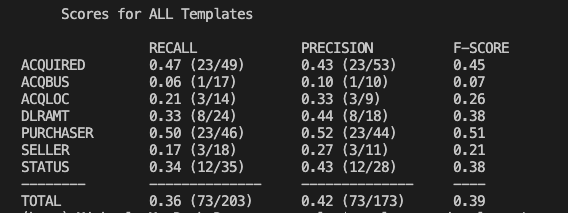
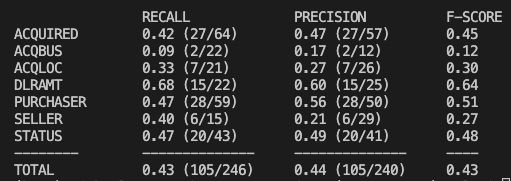
Updates for final turn-in

diff --git a/NLP Project (VR Troopers)/extract.py b/NLP Project (VR Troopers)/extract.py
@@ -8,26 +8,6 @@
 # December 6, 8: Project presentations (during class).
 # December 10: Final project slides and posters due
 
-#~~~~~~~~~
-
-# Random thoughts for the project
-
-#~~~~~~~~~
-# Vet these candidates through a rule-based system
-# Probability matrix to choose most likely answer
-# ACQLOC,  DLRAMT,  SELLER,  and  STATUS  all only have a single correct answer
-# Loop these through first with the highest probability and then use these answer to help inform latter options
-# DLRAMT -> phrase rather than singular amount
-# Recognize numeric values
-# List abbreviations for dollar (these can be given as clues to our system)
-# Have a scoring system based on how many rules they pass
-# From the dependency/POS tree, find generalized rules that can apply and use those to traverse to rebuild the sentence from the nodes
-# Looping System (multiple entities)
-# Rules Paper
-# X is to Y (NOUN ADJ)
-# X and Y 
-# X of Y and Z (NOUN NOUN NOUN)
-
 import sys # Used for I/O
 import ntpath # Used for pathing
 from pathlib import Path # Also used for pathing
@@ -35,7 +15,9 @@ import os
 import re # Used for regex
 import spacy # NLP Models
 from spacy import displacy # Visualization Tools
-from  itertools import chain
+from itertools import chain
+from spacy.matcher import DependencyMatcher
+from spacy import util # Filter Span
 
 
 def get_first_verb(spn):
@@ -72,10 +54,13 @@ def merge_docs(ml_doc, roberta_doc):
 
 def main():
     sp = spacy.load("./models/06/model-best")
-
-    # python -m spacy download en_core_web_trf
-    # pip install spacy[transformers,cuda111]
     roBERTa = spacy.load("./models/transformer")
+
+    roBERTa_merged_entities = spacy.load("./models/transformer")
+    roBERTa_merged_entities.add_pipe("merge_entities")
+    
+    dep_matcher = DependencyMatcher(vocab=roBERTa.vocab)
+    dep_matcher_pronoun = DependencyMatcher(vocab=roBERTa.vocab)
 
     all_stopwords = sp.Defaults.stop_words # Get all stop words
     all_stopwords.add("Reuter") # Add forms for Reuter
@@ -104,17 +89,30 @@ def main():
             "label": "DLRAMT",
             "pattern": "undisclosed",
             "id": "dlramt"
-        },
-        # Not working (??)
-        # {
-        #     "label": "DLRAMT",
-        #     "pattern": [
-        #         {"LOWER": "not"},
-        #         {"LOWER": "disclosed"}],
-        #     "id": "dlramt"
-        # },
+        }
     ]
     ruler.add_patterns(patterns)
+
+    dep_pattern = [{'RIGHT_ID': 'verb', 'RIGHT_ATTRS': {'POS': 'VERB'}},
+               {'LEFT_ID': 'verb', 'REL_OP': '>', 'RIGHT_ID': 'subject', 'RIGHT_ATTRS': {'DEP': 'nsubj'}}
+    ]
+
+    dep_pattern_2 = [{'RIGHT_ID': 'verb', 'RIGHT_ATTRS': {'POS': 'VERB'}},
+                    {'LEFT_ID': 'verb', 'REL_OP': '>', 'RIGHT_ID': 'subject', 'RIGHT_ATTRS': {'DEP': 'nsubj'}},
+                    {'LEFT_ID': 'verb', 'REL_OP': '>', 'RIGHT_ID': 'd_object', 'RIGHT_ATTRS': {'DEP': 'dobj'}}
+                    ]
+
+    dep_pattern_3 = [{'RIGHT_ID': 'verb', 'RIGHT_ATTRS': {'POS': 'VERB'}},
+               {'LEFT_ID': 'verb', 'REL_OP': ';*', 'RIGHT_ID': 'pronoun_before', 'RIGHT_ATTRS': {'POS': 'PROPN'}},
+               {'LEFT_ID': 'verb', 'REL_OP': '.*', 'RIGHT_ID': 'pronoun_after', 'RIGHT_ATTRS': {'POS': 'PROPN'}}
+    ]
+
+    # Add the pattern to the matcher under the name 'nsubj_verb'
+    dep_matcher.add('nsubj_verb', patterns=[dep_pattern])
+    # Add the pattern to the matcher under the name 'nsubj_verb_dobj'
+    dep_matcher.add('nsubj_verb_dobj', patterns=[dep_pattern_2])
+    # Add the pattern to the matcher under the name 'pronoun_verb_pronoun'
+    dep_matcher_pronoun.add('pronoun_verb', patterns=[dep_pattern_3])
 
     # Doclist of files to read in
     docFile = sys.argv[1]
@@ -125,12 +123,6 @@ def main():
     # Directory paths for both docs and answer keys
     developmentDocs = '/data/development-docs'
     developmentKeys = '/data/development-anskeys'
-
-    # Used for opening and reading all the files in the development docs
-    # for filename in os.listdir(os.getcwd() + developmentDocs):
-    #     with open(os.path.join(os.getcwd() + developmentDocs, filename), 'r') as fileText: # open in readonly mode
-    #         developmentDocText = docFilePath = fileText.read().strip().splitlines()
-    #         print(developmentDocText)
 
     # Read in files and separate by line
     with open(docFile) as docList:
@@ -158,101 +150,131 @@ def main():
         # Create a spacy object for the entire text given
         doc = sp(documentText)
 
+        newDoc_merged_entities = roBERTa_merged_entities(documentText)
         newDoc = roBERTa(documentText)
-        # secondDoc = nlp(documentText)
-        # TESTING -> Prints out each sentence
-        # for sentence in doc.sents:
-        #     print(sentence)
 
-            # TESTING -> Used for displaying the dependency graph for each sentence
-            # displacy.serve(doc, style="dep", options = {'distance': 150})
-            # displacy.serve(doc, style="ent")
+        dep_matches = dep_matcher(newDoc_merged_entities)
+        dep_matches_pronoun = dep_matcher_pronoun(newDoc_merged_entities)
 
-            # TESTING -> Other way for visualizing the entities and where they start/end in the sentence
-            # ents = [(e.text, e.start_char, e.end_char, e.label_) for e in doc.ents]
+        dependencyList = []
+        pronounDependencyList = []
 
-        # TESTING -> Loop through each entity spacy determined
+        for match in dep_matches_pronoun:
+            matches = match[1]
+            verb, pronoun_before, pronoun_after = matches[0], matches[1], matches[2]
+            pronounDependencyList.append([newDoc_merged_entities[pronoun_before], newDoc_merged_entities[verb].lemma_, newDoc_merged_entities[pronoun_after]])
+            # print(roBERTa.vocab[pattern_name].text, '\t', newDoc[pronoun_before], '...',  newDoc[verb].lemma_, '...',  newDoc[pronoun_after])
+
+        # Loop over each tuple in the list 'dep_matches'
+        for match in dep_matches:
+            matches = match[1]
+            if len(matches) > 2:
+                verb, subject, dobject = matches[0], matches[1], matches[2]
+                dependencyList.append([newDoc_merged_entities[subject], newDoc_merged_entities[verb], newDoc_merged_entities[dobject]])
+                
+            else:
+                verb, subject = matches[0], matches[1]
+                dependencyList.append([newDoc_merged_entities[subject], newDoc_merged_entities[verb]])
+                # print(roBERTa.vocab[pattern_name].text, '\t', newDoc[subject], '...', newDoc[verb])
 
         print (f"TEXT: {path[1]}")
         entityList = []
-        print("************************* MACHINE LEARNING MODEL *************************")
-        for ent in doc.ents:
+        spacyEntityList = []
+        
+        # print("************************* MACHINE LEARNING MODEL *************************")
+        # for ent in doc.ents:
             # entityList.append([ent.text, ent.label_])
-            print(f'{ent.text:{45}} {ent.label_}')
+            # print(f'{ent.text:{45}} {ent.label_}')
 
-        print("************************* SPACY TRANSFORMER MODEL *************************")
+        # print("************************* SPACY TRANSFORMER MODEL *************************")
         for ent in newDoc.ents:
-            print(f'{ent.text:{45}} {ent.label_}')
-
-        print("************************* MERGED *************************")
+            spacyEntityList.append([ent.text, ent.label_])
+            # if ent.label_ == 'GPE':
+                # spacyEntityListLoc.append(ent.text)
+            # print(f'{ent.text:{45}} {ent.label_}')
+        
+        # print("************************* MERGED *************************")
         merged = merge_docs(doc, newDoc)
         for ent in merged.ents:
-            #entityList.append([ent.text, ent.label_])
-            print(f'{ent.text:{45}} {ent.label_}')
+            entityList.append([ent.text, ent.label_])
+            # print(f'{ent.text:{45}} {ent.label_}')
 
         # TODO Uncomment when running in prod
-        # if("ACQUIRED" in chain(*entityList)):
-        #     for entity in entityList:
-        #         if entity[1] == 'ACQUIRED':
-        #             print (f"ACQUIRED: \"{entity[0]}\"")
+        if("ACQUIRED" in chain(*entityList)):
+            for entity in entityList:
+                if entity[1] == 'ACQUIRED':
+                    print (f"ACQUIRED: \"{entity[0]}\"")
         
-        # elif("ACQUIRED" not in chain(*entityList)):
-        #    print (f"ACQUIRED: ---") 
+        elif("ACQUIRED" not in chain(*entityList)):
+           print (f"ACQUIRED: ---") 
         
-        # if("ACQBUS" in chain(*entityList)):
-        #     for entity in entityList:
-        #         if entity[1] == 'ACQBUS':
-        #             print (f"ACQBUS: \"{entity[0]}\"")
+        if("ACQBUS" in chain(*entityList)):
+            for entity in entityList:
+                if entity[1] == 'ACQBUS':
+                    print (f"ACQBUS: \"{entity[0]}\"")
         
-        # elif("ACQBUS" not in chain(*entityList)):
-        #    print (f"ACQBUS: ---") 
+        elif("ACQBUS" not in chain(*entityList)):
+           print (f"ACQBUS: ---") 
 
-        # if("ACQLOC" in chain(*entityList)):
-        #     for entity in entityList:
-        #         if entity[1] == 'ACQLOC':
-        #             print (f"ACQLOC: \"{entity[0]}\"")
+        if("ACQLOC" in chain(*entityList)):
+            for entity in entityList:
+                if entity[1] == 'ACQLOC':
+                    print (f"ACQLOC: \"{entity[0]}\"")
         
-        # elif("ACQLOC" not in chain(*entityList)):
-        #    print (f"ACQLOC: ---")
+        elif("ACQLOC" not in chain(*entityList)):
+           print (f"ACQLOC: ---")
 
-        # if("DLRAMT" in chain(*entityList)):
-        #     for entity in entityList:
-        #         if entity[1] == 'DLRAMT':
-        #             print (f"DLRAMT: \"{entity[0]}\"")
+        if("DLRAMT" in chain(*entityList)):
+            for entity in entityList:
+                if entity[1] == 'DLRAMT':
+                    print (f"DLRAMT: \"{entity[0]}\"")
         
-        # elif("DLRAMT" not in chain(*entityList)):
-        #    print (f"DLRAMT: ---") 
+        elif("DLRAMT" not in chain(*entityList)):
+           print (f"DLRAMT: ---") 
 
-        # if("PURCHASER" in chain(*entityList)):
-        #     for entity in entityList:
-        #         if entity[1] == 'PURCHASER':
-        #             print (f"PURCHASER: \"{entity[0]}\"")
+        if("PURCHASER" in chain(*entityList)):
+            for entity in entityList:
+                if entity[1] == 'PURCHASER':
+                    print (f"PURCHASER: \"{entity[0]}\"")
         
-        # elif("PURCHASER" not in chain(*entityList)):
-        #    print (f"PURCHASER: ---") 
+        elif("PURCHASER" not in chain(*entityList)):
+           print (f"PURCHASER: ---") 
 
-        # if("SELLER" in chain(*entityList)):
-        #     for entity in entityList:
-        #         if entity[1] == 'SELLER':
-        #             print (f"SELLER: \"{entity[0]}\"")
+        SELLER_BOOL = True
+
+        if("SELLER" in chain(*entityList)):
+            for entity in entityList:
+                if entity[1] == 'SELLER':
+                    SELLER_BOOL = False
+                    print (f"SELLER: \"{entity[0]}\"")
         
-        # elif("SELLER" not in chain(*entityList)):
-        #    print (f"SELLER: ---") 
-
-        # if("STATUS" in chain(*entityList)):
-        #     for entity in entityList:
-        #         if entity[1] == 'STATUS':
-        #             print (f"STATUS: \"{entity[0]}\"")
+        elif("SELLER" not in chain(*entityList)):
+            sellerList = []
+            verbList = ['sell', 'move', 'close', 'trade', 'exchange', 'barter', 'give']
+            for entity in spacyEntityList:
+                usedEntityList = []
+                for pronounList in pronounDependencyList:
+                    strConversion = str(pronounList[0])
+                    strVerb = str(pronounList[1])
+                    if strConversion == entity[0] and entity[1] == 'ORG' and strVerb in verbList and entity[0] not in usedEntityList:
+                        usedEntityList.append(entity[0])
+                        SELLER_BOOL = False
+                        sellerList.append(entity[0])
+            if(len(sellerList)>0):
+                print (f"SELLER: \"{sellerList[0]}\"")
         
-        # elif("STATUS" not in chain(*entityList)):
-        #    print (f"STATUS: ---") 
+        if(SELLER_BOOL):
+            print (f"SELLER: ---")
 
-        # print()
+        if("STATUS" in chain(*entityList)):
+            for entity in entityList:
+                if entity[1] == 'STATUS':
+                    print (f"STATUS: \"{entity[0]}\"")
         
+        elif("STATUS" not in chain(*entityList)):
+           print (f"STATUS: ---") 
 
-        # TESTING -> displays the text, POS, dependency, and head for each token (each word)
-        # for token in doc:
-        #     print(f'{token.text:{15}} {token.pos_:{15}} {token.dep_:{15}} {token.head}')
+        print()
 
 if __name__ == "__main__":
     main()

diff --git a/NLP Project (VR Troopers)/train_model.py b/NLP Project (VR Troopers)/train_model.py
@@ -1,9 +1,9 @@
 import spacy # NLP Models
 
 def main():
-    nlp = spacy.load("en_core_web_trf")
-    # nlp.add_pipe("ner")
-    nlp.to_disk("models/transformer")
+    nlp = spacy.load("./models/05")
+    nlp.add_pipe("ner")
+    nlp.to_disk("./models/05")
 
 if __name__ == "__main__":
     main()

diff --git a/NLP Project (VR Troopers)/README.md b/NLP Project (VR Troopers)/README.md
@@ -3,16 +3,18 @@
 This repo contains code for the information extraction system for the domain of corporate acquisition events.
 
 ## Time Estimate
-This program contains a pre-trained model, thus the time for processing one document is relatively low ~100ms.
+This program contains a pre-trained model, thus the time for processing one document is relatively low ~1s.
 
 ## I-E Script
-Currently this script isn't used to install anything, but you can run it so that you know how to run the program (or just keep reading).
+This script is used to install the spacy-transformers that are needed for the transformer model from roBERTa.
 
 ## Running
 
 Tested on CADE lab machine (#25)
 
 All of the necessary dependencies have already been installed on CADE machines so there's no need to run a virtual environment at this time.  You will receive a warning regarding some "TensorBoard" install but since the model is pre-trained and included in this repo, this is not an issue.
+
+You will need to install the spacy-transformers via the I-E script. Just run the I-E before running the extract script and you should be good.
 
 The doclist provided must be similar in stature to:
 ```
@@ -30,6 +32,13 @@ python3 extract.py <doclist> > <output-file-name>
 
 ***<output-file-name\>*** will be where the output of the answer key will be.  You will also need to compare this against the gold standard for the scorer to work properly.
 
+***BE WARNED*** 
+For each document you process, you will see a warning similar to this:
+```bash
+UserWarning: User provided device_type of 'cuda', but CUDA is not available. Disabling warnings.warn('User provided device_type of \'cuda\', but CUDA is not available. Disabling')
+```
+Do not fear, for this is not affecting the model's performance.  This is a fragment of using the roBERTa tokenizer model and is not needed.
+
 Run the scorer like this:
 ```perl
 perl score-ie.pl <output-file-name> <gold_templates>
@@ -41,6 +50,10 @@ The method employed is a machine learning model using custom word vectors and Sp
 SpaCy's Custom NER and Training Pipe can be found [here](https://spacy.io/usage/training/).
 
 Custom word vectors were created using [Gensim's Word2Vec](https://radimrehurek.com/gensim/models/word2vec.html)
+
+The Entity Ruler for Spacy can be found [here.](https://spacy.io/api/entityruler)
+
+The Dependency Matcher for Spacy can be found [here.](https://spacy.io/api/dependencymatcher)
 
 ## Creating the Model
 1. Generate the custom word vectors using the file: ``` generating_word_vectors.py```.
@@ -90,9 +103,9 @@ If you have no issues running the script or modifying the test data, you should 
 ![Confusion Matrix](pics/confusion-matrix.png)
 
 ## F-Score Analysis
-The training/validating/testing split for the 400 documents is 300/50/50 respectively.  The random split of the training/validating/testing data was seeded with a random number of 50 and will remain that way so the model isn't validating itself on seen data.  The randomization of the data was done to ensure that the model was not able to predict based on ordering effects.
+The training/validating/testing split for the 500 documents is 375/65/65 respectively.  The random split of the training/validating/testing data was seeded with a random number of 75 and will remain that way so the model isn't validating itself on seen data.  The randomization of the data was done to ensure that the model was not able to predict based on ordering effects.
 
-With this in mind, model-04 was the best performing model for the testing data with an f-score of 0.39.
+With this in mind, model-06 was the best performing model for the testing data with an f-score of 0.43.
 
 ![F-Score](pics/f-score.png)
 
@@ -100,11 +113,17 @@ With this in mind, model-04 was the best performing model for the testing data w
 ### Taylor Allred
 - Significant contribution to ideation for rules-based approach (These ideas and rules are commented in the main python file as placeholders for future implementation/improvements on the model)
 - Reviewed code and PRs for merges within the repo
+#### After Midterm Update
+- Created merger method that takes both the ML model and Entity Ruler into account when outputting the final result
+- Create Entity Rules to significantly increase both the recall and precision of the DLRAMT label
 ### Michael Clemens
 - Created Repo and populated ReadMe
 - Coded up the solution (ML approach was taken first for this baseline)
 - Tested multiple ML models, created confusion matrix, validated metrics
 - Created custom word vectors, researched and implemented various custom NER pipelines 
-
+#### After Midterm Update
+- Re-trained ML model using the new data presented during the Midterm.
+- Re-did the custom word vectors now remove fewer stop words that were present in some of the gold standard labels
+- Created Dependency Matcher Validation for the SELLER label
 ## Discussion
-We plan on fusing some other models together to get our best performing model that will have a significantly better overall f-score.  Currently this model has custom word vectors and scores moderately well over the features except for ACQBUS.  We plan on incorporating a Matcher and EntityRuler in combination with this model to supplement it's behavior.
+Currently this model has custom word vectors and scores moderately well over the features except for ACQBUS and SELLER.  Incorporating a Dependency Matcher and EntityRuler in combination with the ML to supplement it's behavior may have proved more fruitful.  Due to time constraints, ACQBUS was not modified at all in our rules based approach.
